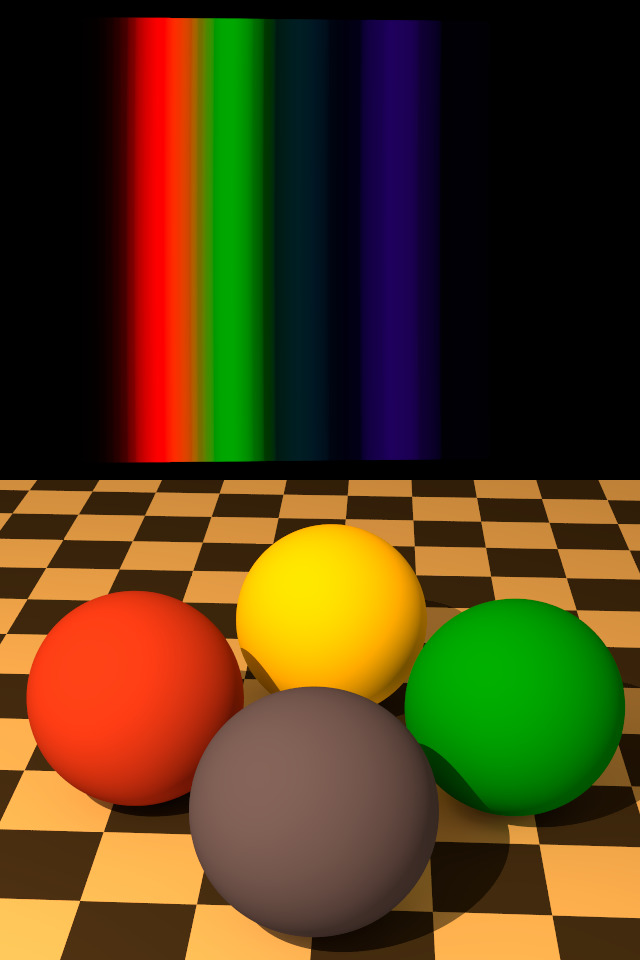
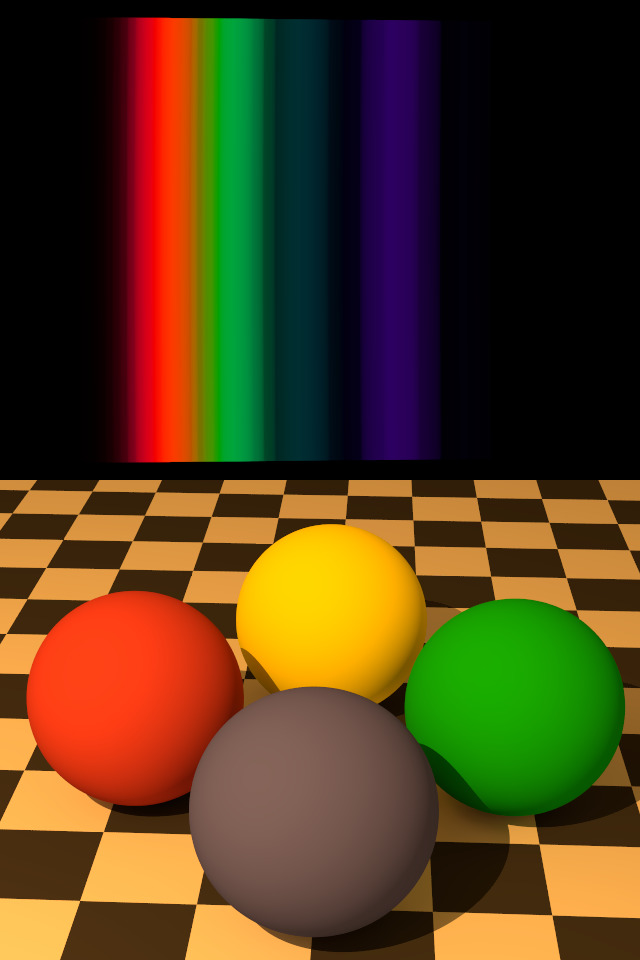
v1.0.2
Uses modified SpectralComposer for gamut mapping

Changed region(s): [[0.3125, 0.0, 0.4375, 0.5], [0.1875, 0.0, 0.2812, 0.5], [0.625, 0.625, 0.875, 0.75]]

diff --git a/integratelight.html b/integratelight.html
@@ -2,13 +2,13 @@
 <html lang="en">
 <head>
 <meta charset="UTF-8">
-<title>IntegrateLight 1.0.1A User Manual | POV-Ray Object Collection</title>
+<title>IntegrateLight 1.0.2 User Manual | POV-Ray Object Collection</title>
 <link rel="stylesheet" type="text/css" href="integratelight.css">
 </head>
 
 <body>
 
-<h1>IntegrateLight 1.0.1A User&nbsp;Manual</h1>
+<h1>IntegrateLight 1.0.2 User&nbsp;Manual</h1>
 
 <h2>Abstract</h2>
 
@@ -84,7 +84,7 @@ that prepares spectra for use with Lilysoft’s SpectralRender package. The impe
   <th>File</th>
   <th>Description</th>
  </tr><tr>
-  <td><code>README</code><var>nnnnnn</var><code>.html</code></td>
+  <td><code>README<var>nnnnnn</var>.html</code></td>
   <td>Important information about using the POV-Ray Object Collection</td>
  </tr><tr>
   <td><code>integratelight_description.txt</code></td>
@@ -101,7 +101,7 @@ that prepares spectra for use with Lilysoft’s SpectralRender package. The impe
  </tr><tr>
   <td><code>cc-LGPL-a.png</code></td>
  </tr><tr>
-  <td><code>Version</code><var>nnnnnn</var><code>.js</code></td>
+  <td><code>Version<var>nnnnnn</var>.js</code></td>
  </tr>
 </table>
 
@@ -113,13 +113,22 @@ that prepares spectra for use with Lilysoft’s SpectralRender package. The impe
 
 <ul>
  <li>POV-Ray version 3.7 or later.
- <li><a href="http://www.ignorancia.org/index.php/technical/lightsys/">Lightsys version 4</a> (Lightsys IV), available under a separate license.
+ <li><a href="http://www.ignorancia.org/index.php/technical/lightsys/" target="_blank">Lightsys version 4</a> (Lightsys IV)
   <ul>
    <li><strong>Do not</strong> save Lightsys to your Object Collection folder, but do make sure that it is in your <a href="https://wiki.povray.org/content/Reference:Scene_Parsing_Options#Library_Paths">library path</a>.
   </ul>
- <li><a href="https://www.lilysoft.org/CGI/SR/Spectral%20Render.htm">SpectralRender</a> version 0.20 or later, available under a separate license.
+ <li><a href="https://www.lilysoft.org/CGI/SR/Spectral%20Render.htm" target="_blank">SpectralRender</a> version 0.20 or later
   <ul>
    <li><strong>Do not</strong> save SpectralRender to your Object Collection folder, but do make sure that it is in your library path.
+  </ul>
+</ul>
+
+<h4>Optional</h4>
+
+<ul>
+ <li><a href="https://github.com/CousinRicky/POV-SpectralRender-mods" target="_blank">Modifications to SpectralRender</a>, for <a href="https://en.wikipedia.org/wiki/Color_management#Gamut_mapping" target="_blank">gamut-mapped</a> renders of the demo scenes
+  <ul>
+   <li>These modifications may be saved in your SpectralRender folder. They will not overwrite the original SpectralRender files.
   </ul>
 </ul>
 
@@ -140,7 +149,7 @@ that prepares spectra for use with Lilysoft’s SpectralRender package. The impe
 #include "integratelight.inc"</pre>
 <p>Including <code>integratelight.inc</code> more than once is harmless, but <code>spectral.inc</code> should be included only once. If the render halts with a message that it cannot find file <code>CIE.inc</code>, then Lightsys IV was not installed properly, or is not in the library path.
 
-<p>As of the release of IntegrateLight 1.0.1A, POV-Ray will issue a warning that the experimental feature spline is used. This is normal and expected.
+<p>As of the release of IntegrateLight 1.0.2, POV-Ray will issue a warning that the experimental feature spline is used. This is normal and expected.
 
 <p><a href="#toc">Table of contents</a><hr>
 
@@ -163,7 +172,7 @@ that prepares spectra for use with Lilysoft’s SpectralRender package. The impe
 
 <h4>Integration Method (the Simpson Argument)</h4>
 
-<p>Macros <code>ILight_Continuous()</code> and <code>ILight_Continuous()</code> use numerical integration to prepare the spectra. Two methods are available: the trapezoidal rule and Simpson’s rule. The trapezoidal rule treats a spectral curve as a series of straight line segments, whereas Simpson’s rule treats the spectrum as a series of parabolic curves. For daylight illuminants (e.g., D65), the trapezoidal rule is sufficient at the default <a href="#External">integral step</a> of 5.
+<p>Macros <code>ILight_Continuous()</code> and <code>ILight_Reflective()</code> use numerical integration to prepare the spectra. Two methods are available: the trapezoidal rule and Simpson’s rule. The trapezoidal rule treats a spectral curve as a series of straight line segments, whereas Simpson’s rule treats the spectrum as a series of parabolic curves. For daylight illuminants (e.g., D65), the trapezoidal rule is sufficient at the default <a href="#External">integral step</a> of 5.
 
 <h4 id="Normalization">Normalization</h4>
 
@@ -181,9 +190,9 @@ that prepares spectra for use with Lilysoft’s SpectralRender package. The impe
  <dt><code>ILIGHT_GREY</code>
  <dd>Same as <code>ILIGHT_GRAY</code>.
  <dt><code>ILIGHT_XYY</code>
- <dd>The spectrum is normalized such that, after conversion to <a href="https://en.wikipedia.org/wiki/CIE_1931_color_space#CIE_xy_chromaticity_diagram_and_the_CIE_xyY_color_space"><var>xyY</var></a>, the <var>Y</var> component is 1.0. Note that <var>Y</var> represents luminance by definition, and is more accurate than POV-Ray’s current implementation of <code>.gray</code> in this respect.
+ <dd>The spectrum is normalized such that, after conversion to <a href="https://en.wikipedia.org/wiki/CIE_1931_color_space#CIE_xy_chromaticity_diagram_and_the_CIE_xyY_color_space" target="_blank"><var>xyY</var></a>, the <var>Y</var> component is 1.0. Note that <var>Y</var> represents luminance by definition, and is more accurate than POV-Ray’s current implementation of <code>.gray</code> in this respect.
  <dt><code>ILIGHT_XYZ</code>
- <dd>The spectrum is normalized such that, after conversion to <a href="https://en.wikipedia.org/wiki/CIE_1931_color_space#CIE_xy_chromaticity_diagram_and_the_CIE_xyY_color_space"><var>xyz</var></a>, the sum of <var>x</var>, <var>y</var>, and <var>z</var> is 1.0.
+ <dd>The spectrum is normalized such that, after conversion to <a href="https://en.wikipedia.org/wiki/CIE_1931_color_space#CIE_xy_chromaticity_diagram_and_the_CIE_xyY_color_space" target="_blank"><var>xyz</var></a>, the sum of <var>x</var>, <var>y</var>, and <var>z</var> is 1.0.
  <dt><var>wavelength value</var>
  <dd>Any value 300 or greater is treated as a wavelength in nanometers, and the spectrum is normalized such that this wavelength’s intensity is 1.0.
   <p>Note that the value of the array element corresponding to <var>wavelength value</var> (if any) may not be exactly 1.0, because it will contain the integrated value, not the point value.
@@ -251,6 +260,8 @@ that prepares spectra for use with Lilysoft’s SpectralRender package. The impe
  </tr>
 </table>
 
+<p><a href="#toc">Table of contents</a><hr>
+
 <h3 id="ILight_Reflective">ILight_Reflective (Curve, Simpson, Level)</h3>
 
 <p>Integrates a reflective spectral curve spline and returns a data structure that can be passed to SpectralRender macros such as <code>T_Spectral_Matte()</code>. The curve is integrated from 375 nm to 735 nm in steps no larger than <a href="#External"><code>CIE_IntegralStep</code></a>. (If the scene is rendered in SpectralRender preview mode, the color is calculated using Lightsys IV’s current gamut mapping setting.)
@@ -289,7 +300,7 @@ that prepares spectra for use with Lilysoft’s SpectralRender package. The impe
   <td><code>CIE_IntegralStep</code></td>
   <td>Lightsys IV (file <code>CIE.inc</code>)</td>
   <td>float</td>
-  <td>This parameter is used to determine the integral step size, in nanometers. If its value does not divide evenly into 10 (for trapezoidal integration) or 5 (for Simpson’s rule integration), IntegrateLight will use the next smaller value which does.</td>
+  <td>This parameter is used to determine the integral step size between wavelength samples, in nanometers. If its value does not divide evenly into 10 (for trapezoidal integration) or 5 (for Simpson’s rule integration), IntegrateLight will use the next smaller value which does.</td>
   <td>5</td>
  </tr>
 </table>
@@ -302,21 +313,21 @@ that prepares spectra for use with Lilysoft’s SpectralRender package. The impe
   <td><code>INTEGRATELIGHT_VERSION</code></td>
   <td>float</td>
   <td>The IntegrateLight version, in case the scene file needs that information.</td>
-  <td>1.01</td>
+  <td>1.02</td>
  </tr>
 </table>
 
 <h3>Internal Identifiers</h3>
 
-<p>Any identifiers in <code>integratelight.inc</code> that are not documented in this manual are considered “private” or “protected,” and are subject to change or elimination in a future update.
+<p>Any identifiers in <code>integratelight.inc</code> that are not documented in this manual are considered “private,” and are subject to change or elimination in a future update.
 
 <p><a href="#toc">Table of contents</a><hr>
 
 <h2 id="About">About IntegrateLight</h2>
 
 <address>
- <p>Copyright © 2016 &ndash; 2021 Richard Callwood III. Some rights reserved.
- <p>This library is free software; you can redistribute it and/or modify it under the terms of the <a href="https://www.gnu.org/licenses/old-licenses/lgpl-2.1.html">GNU Lesser General Public License version 2.1</a> as published by the Free Software Foundation.
+ <p>Copyright © 2016 &ndash; 2023 Richard Callwood III. Some rights reserved.
+ <p>This library is free software; you can redistribute it and/or modify it under the terms of the <a href="https://www.gnu.org/licenses/old-licenses/lgpl-2.1.html" target="_blank">GNU Lesser General Public License version 2.1</a> as published by the Free Software Foundation.
  <p>This library is distributed in the hope that it will be useful, but WITHOUT ANY WARRANTY; without even the implied warranty of MERCHANTABILITY or FITNESS FOR A PARTICULAR PURPOSE.
 </address>
 
@@ -335,16 +346,14 @@ that prepares spectra for use with Lilysoft’s SpectralRender package. The impe
 <table>
  <tr><th>Version</th> <th>Date</th> <th>Notes</th></tr>
  <tr>
-  <td>1.0</td>
-  <td>2016 November 14</td>
+  <td>1.0</td> <td>2016 November 14</td>
   <td>
    <ul>
     <li>The initial public release.
    </ul>
   </td>
  </tr><tr>
-  <td>1.0.1</td>
-  <td>2019 March 31</td>
+  <td>1.0.1</td> <td>2019 March 31</td>
   <td>
    <ul>
     <li>Supplementary information in this user manual about spectrum normalization is augmented, and a misleading directive about Lightsys IV luminosities is deleted.
@@ -356,6 +365,13 @@ that prepares spectra for use with Lilysoft’s SpectralRender package. The impe
   <td>
    <ul>
     <li>The User Manual and license texts are updated for repositories other than lib.povray.org.
+   </ul>
+  </td>
+ </tr><tr>
+  <td>1.0.2</td> <td>2023 March 14</td>
+  <td>
+   <ul>
+    <li>The scenes <code>integratelight_disperse.pov</code> and <code>integratelight_scene.pov</code> will use a modified version of the SpectralComposer file for gamut mapping, if the modified file is available.
    </ul>
   </td>
  </tr>

diff --git a/integratelight.css b/integratelight.css
@@ -1,18 +1,24 @@
 /* integratelight.css
  *
- * Copyright (C) 2016 - 2022 Richard Callwood III.  Some rights reserved.
+ * Copyright (C) 2016 - 2023 Richard Callwood III.  Some rights reserved.
  * This file is licensed under the terms of the GNU LGPL 2.1.
  * See https://www.gnu.org/licenses/old-licenses/lgpl-2.1.html for the text of
  * the license.
  *
- * Version 1.0.1A  2021-Oct-10, updated 2022-Feb-18
+ * Version 1.0.2  2023-Mar-14
  */
+a
+{ text-decoration:none;
+  border:1px solid; border-color:white gray gray white; border-radius:3px;
+  padding:0 2px 0 2px;
+}
 a:link    { color:#00c; }
 a:visited { color:#606; }
-a:focus   { background:#ccc; }
+a:focus   { background:#ccc; border:1px dotted gray; }
 a:hover   { background:#fbd; }
-a:active  { background:red; color:white; }
+a:active  { background:red; color:white; border:1px inset red; }
 
+a.demo { border:none; padding:0; }
 a:link    img { border:1px solid #00c; }
 a:visited img { border:1px solid #606; }
 a:focus   img { border:1px dotted #c00; }
@@ -29,8 +35,7 @@ body
 code
 { font-family:"Consolas", "Lucida Console", "Liberation Mono", "Courier New", monospace;
   letter-spacing:-0.05em;
-/* Make it legible. */
-  font-size:100%;
+  font-size:100%; /* Make it legible. */
 }
 dd
 { margin:0.3em 0em 0.9em 2em;
